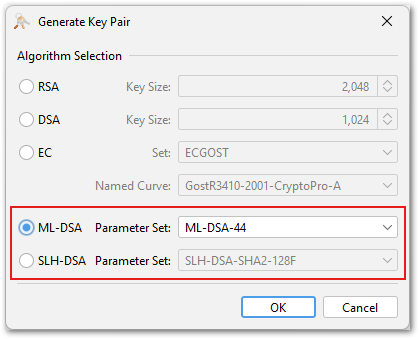
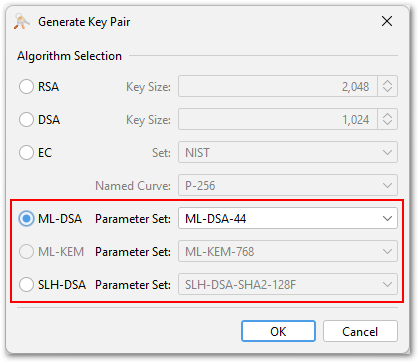
Release v5.6.1

diff --git a/downloads.html b/downloads.html
@@ -21,8 +21,8 @@ title: KeyStore Explorer - Download
     </tr>
     <tr class="plain_odd">
         <td>Windows</td>
-        <td><a href="https://github.com/kaikramer/keystore-explorer/releases/download/v5.6.0/kse-560-setup.exe">kse-560-setup.exe</a></td>
-        <td><a href="kse-560-setup.exe.sha256">SHA-256</a></td>
+        <td><a href="https://github.com/kaikramer/keystore-explorer/releases/download/v5.6.1/kse-561-setup.exe">kse-561-setup.exe</a></td>
+        <td><a href="kse-561-setup.exe.sha256">SHA-256</a></td>
         <td>
             Windows installer (InnoSetup), all possible command line parameters (e.g. for silent or non-administrative install) are listed here:
             <a href="https://jrsoftware.org/ishelp/index.php?topic=setupcmdline">Setup Command Line Parameters</a>. Includes a custom Java runtime.
@@ -30,51 +30,51 @@ title: KeyStore Explorer - Download
     </tr>
     <tr class="plain_odd">
         <td>Windows</td>
-        <td><a href="https://github.com/kaikramer/keystore-explorer/releases/download/v5.6.0/kse-560-setup-no-jre.exe">kse-560-setup-no-jre.exe</a></td>
-        <td><a href="kse-560-setup-no-jre.exe.sha256">SHA-256</a></td>
+        <td><a href="https://github.com/kaikramer/keystore-explorer/releases/download/v5.6.1/kse-561-setup-no-jre.exe">kse-561-setup-no-jre.exe</a></td>
+        <td><a href="kse-561-setup-no-jre.exe.sha256">SHA-256</a></td>
         <td>
-            Same as above, but you have to download and install a Java runtime environment (minimum is Java 11) yourself.
+            Same as above, but you have to download and install a Java runtime environment (minimum is Java 17) yourself.
         </td>
     </tr>
     <tr class="plain_even">
         <td>macOS</td>
-        <td><a href="https://github.com/kaikramer/keystore-explorer/releases/download/v5.6.0/kse-560-arm64.dmg">kse-560-arm64.dmg</a></td>
-        <td><a href="kse-560-arm64.dmg.sha256">SHA-256</a></td>
+        <td><a href="https://github.com/kaikramer/keystore-explorer/releases/download/v5.6.1/kse-561-arm64.dmg">kse-561-arm64.dmg</a></td>
+        <td><a href="kse-561-arm64.dmg.sha256">SHA-256</a></td>
         <td>
             Download for Apple Silicon (M1, M2, ...). Double-click the disk image to mount it, then drag KeyStore Explorer to the Applications folder. The application bundle contains a custom Java runtime.
         </td>
     </tr>
     <tr class="plain_even">
         <td>macOS</td>
-        <td><a href="https://github.com/kaikramer/keystore-explorer/releases/download/v5.6.0/kse-560-x64.dmg">kse-560-x64.dmg</a></td>
-        <td><a href="kse-560-x64.dmg.sha256">SHA-256</a></td>
+        <td><a href="https://github.com/kaikramer/keystore-explorer/releases/download/v5.6.1/kse-561-x64.dmg">kse-561-x64.dmg</a></td>
+        <td><a href="kse-561-x64.dmg.sha256">SHA-256</a></td>
         <td>
             Download for Macs with Intel CPU. Double-click the disk image to mount it, then drag KeyStore Explorer to the Applications folder. The application bundle contains a custom Java runtime.
         </td>
     </tr>
     <tr class="plain_odd">
         <td>Linux</td>
-        <td><a href="https://github.com/kaikramer/keystore-explorer/releases/download/v5.6.0/kse_5.6.0_all.deb">kse_5.6.0_all.deb</a></td>
-        <td><a href="kse_5.6.0_all.deb.sha256">SHA-256</a></td>
+        <td><a href="https://github.com/kaikramer/keystore-explorer/releases/download/v5.6.1/kse_5.6.1_all.deb">kse_5.6.1_all.deb</a></td>
+        <td><a href="kse_5.6.1_all.deb.sha256">SHA-256</a></td>
         <td>
             DEB for Ubuntu/Debian/Mint etc.
         </td>
     </tr>
     <tr class="plain_even">
         <td>Linux</td>
-        <td><a href="https://github.com/kaikramer/keystore-explorer/releases/download/v5.6.0/kse-5.6.0-1.noarch.rpm">kse-5.6.0-1.noarch.rpm</a></td>
-        <td><a href="kse-5.6.0-1.noarch.rpm.sha256">SHA-256</a></td>
+        <td><a href="https://github.com/kaikramer/keystore-explorer/releases/download/v5.6.1/kse-5.6.1-1.noarch.rpm">kse-5.6.1-1.noarch.rpm</a></td>
+        <td><a href="kse-5.6.1-1.noarch.rpm.sha256">SHA-256</a></td>
         <td>
             RPM for Fedora/RHEL/Nobara etc.
         </td>
     </tr>
     <tr class="plain_odd">
         <td>All</td>
-        <td><a href="https://github.com/kaikramer/keystore-explorer/releases/download/v5.6.0/kse-560.zip">kse-560.zip</a></td>
-        <td><a href="kse-560.zip.sha256">SHA-256</a></td>
+        <td><a href="https://github.com/kaikramer/keystore-explorer/releases/download/v5.6.1/kse-561.zip">kse-561.zip</a></td>
+        <td><a href="kse-561.zip.sha256">SHA-256</a></td>
         <td>
             ZIP with <code>kse.exe</code> for Windows and <code>kse.sh</code> for Linux/macOS, see included <code>readme.txt</code> for more infos.
-            Requires a Java runtime environment (minimum is Java 11).
+            Requires a Java runtime environment (minimum is Java 17).
         </td>
     </tr>
 </table>

diff --git a/releases.html b/releases.html
@@ -63,7 +63,7 @@ title: KeyStore Explorer - Release Notes
     </div>
 </div>
 
-<h2 class="h3">Post Quantum Cryptography (PQC) Algorithms: ML-DSA and SLH-DSA</h2>
+<h2 class="h3">Post Quantum Cryptography (PQC) Algorithms: ML-DSA, ML-KEM and SLH-DSA</h2>
 <div class="row">
     <div class="col-md-6">
         <p>
@@ -80,7 +80,14 @@ title: KeyStore Explorer - Release Notes
             </ul>
         </p>
         <p>
-            This feature was contributed by AnassBousseaden (ML-DSA) and jonwltn (SLH-DSA).
+            In addition to that KSE also supports generating ML-KEM keypairs, but only in certificates that are 
+            signed with another key pair (as ML-KEM is a key encapsulation mechanism and not a signature algorithm).
+            This is achieved by using the "Sign New Key Pair" feature in the context menu of a signature key and 
+            selecting ML-KEM as the key algorithm for the new key pair. The result is basically the same as using 
+            the keytool commands described in <a href="https://openjdk.org/jeps/496">JEP 496</a>.
+        </p>
+        <p>
+            This feature was contributed by AnassBousseaden (ML-DSA) and jonwltn (SLH-DSA and ML-KEM).
         </p>
     </div>
     <div class="col-md-6">
@@ -222,6 +229,7 @@ title: KeyStore Explorer - Release Notes
                 <li>SignedCertificateTimestampList/SCTs (OID 1.3.6.1.4.1.11129.2.4.2)</li>
                 <li>MS Application Policies (OID 1.3.6.1.4.1.311.21.10)</li>
                 <li>MS NTDS CA Security (OID 1.3.6.1.4.1.311.25.2)</li>
+                <li>MasaURL (OID 1.3.6.1.5.5.7.1.32) defined in RFC 8995</li>
             </ul>
         </p>   
         <p>
@@ -339,6 +347,10 @@ title: KeyStore Explorer - Release Notes
             <li>Separators have been added to create a grouping of the buttons, because some dialogs have up to six action
                 buttons and quickly finding the right one becomes challenging.
             </li>
+            <li>
+                The certificate extensions viewer now has a "Copy" button for putting the extension value into the system clipboard
+                (contributed by Jairo Graterón).
+            </li>
         </ul>
         </p>
     </div>
@@ -389,6 +401,14 @@ title: KeyStore Explorer - Release Notes
                 <li>Added password manager KDF iteration settings in preferences</li>
                 <li>Added progress dialogs for de-/encrypting keystore passwords</li>
                 <li>Allow leading spaces in PEM data for "Examine Clipboard" (contributed by tenpertur)</li>
+                <li>In CRL view the serial numbers of the revoked certificates are now displayed in a monospace font (contributed by Jairo Graterón)</li>
+                <li>Use of "strong" secure random implementations: in the java.security file the 
+                    parameter "securerandom.strongAlgorithms" can be set to define a list of known strong implementations,
+                    KSE uses this setting now and allows to select the previous behaviour in the "User Interface" section
+                    of the preferences dialog (contributed by beth-soptim).
+                </li>
+                <li>Added "Description" and "Role" attributes in DN chooser (contributed by Jairo Graterón)</li>
+                <li>Improved CRL revocation reason text format in CRL view (contributed by The-Lum)</li>
             </ul>
         </p> 
     </div>

diff --git a/contribute.html b/contribute.html
@@ -437,7 +437,7 @@ title: KeyStore Explorer - Contribute
                     <tr valign="middle">
                         <td class="plain_odd" align="left">jonwltn</td>
                         <td class="plain_odd" align="left">5.6.1</td>
-                        <td class="plain_odd" align="left">Verification of JAR Files, PQC (SLH-DSA), SM2 and ECGOST support, CSV export, and many other improvements and bugfixes.</td>
+                        <td class="plain_odd" align="left">Verification of JAR Files, PQC (SLH-DSA, ML-KEM), SM2 and ECGOST support, CSV export, and many other improvements and bugfixes.</td>
                     </tr>
                     <tr valign="middle">
                         <td class="plain_odd" align="left">AnassBousseaden</td>
@@ -447,12 +447,12 @@ title: KeyStore Explorer - Contribute
                     <tr valign="middle">
                         <td class="plain_odd" align="left">Jairo Graterón</td>
                         <td class="plain_odd" align="left">5.6.1</td>
-                        <td class="plain_odd" align="left">Certificate validity information, SCTs extension support, improved key pair import.</td>
+                        <td class="plain_odd" align="left">Certificate validity information, SCTs extension support, improved key pair import and other improvements.</td>
                     </tr>
                     <tr valign="middle">
                         <td class="plain_odd" align="left">The-Lum</td>
                         <td class="plain_odd" align="left">5.6.1</td>
-                        <td class="plain_odd" align="left">Additional keyboard shortcuts, MS extensions support, ASN.1 viewer improvements.</td>
+                        <td class="plain_odd" align="left">Additional keyboard shortcuts, MS extensions support, CRL reason code format, ASN.1 viewer improvements.</td>
                     </tr>
                     <tr valign="middle">
                         <td class="plain_odd" align="left">idvolkov</td>
@@ -462,7 +462,7 @@ title: KeyStore Explorer - Contribute
                     <tr valign="middle">
                         <td class="plain_odd" align="left">beth-soptim</td>
                         <td class="plain_odd" align="left">5.6.1</td>
-                        <td class="plain_odd" align="left">Support Brainpool curves in P12/JKS/JCEKS keystores.</td>
+                        <td class="plain_odd" align="left">Support Brainpool curves in P12/JKS/JCEKS keystores and use of string SecureRandom.</td>
                     </tr>
                     <tr valign="middle">
                         <td class="plain_odd" align="left">tenpertur</td>
